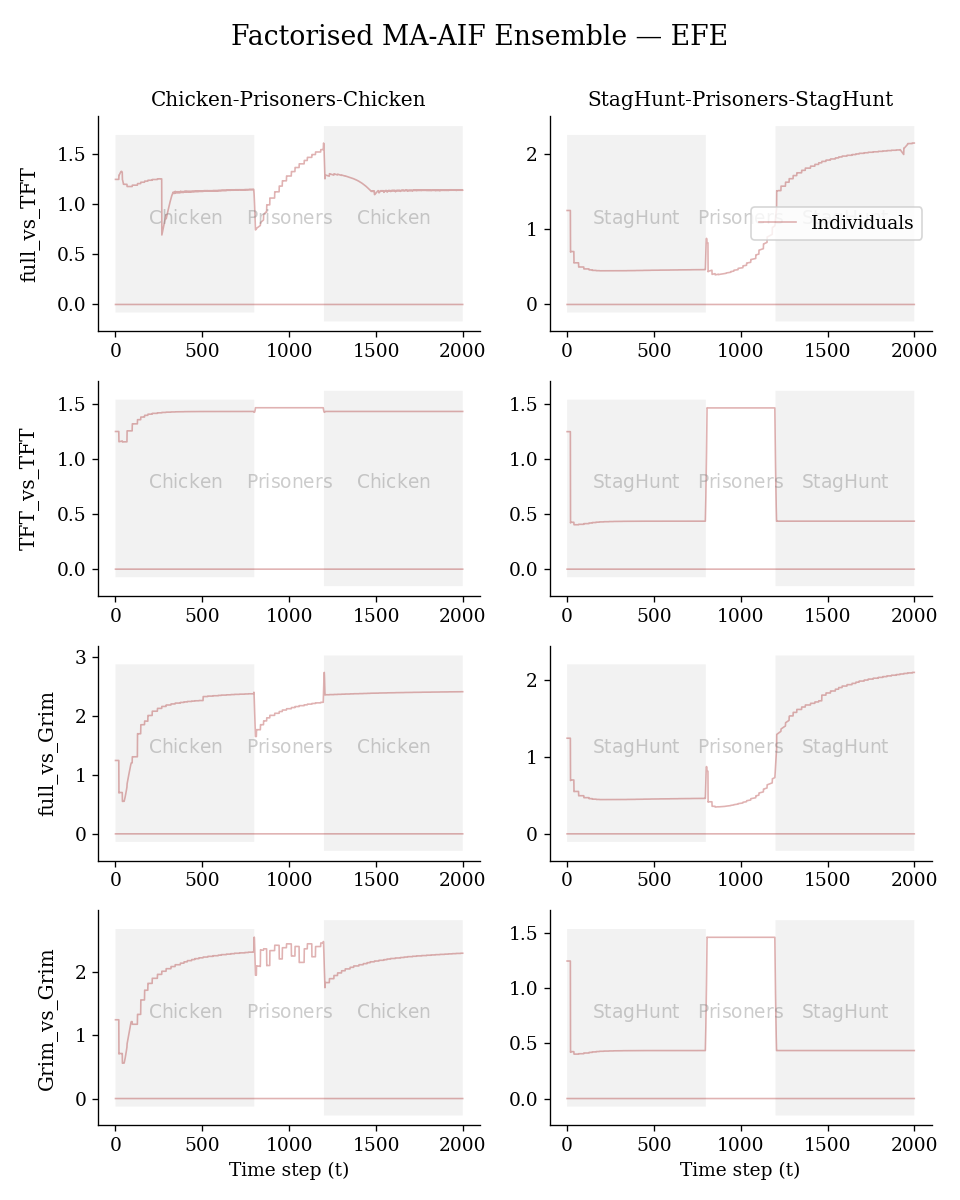
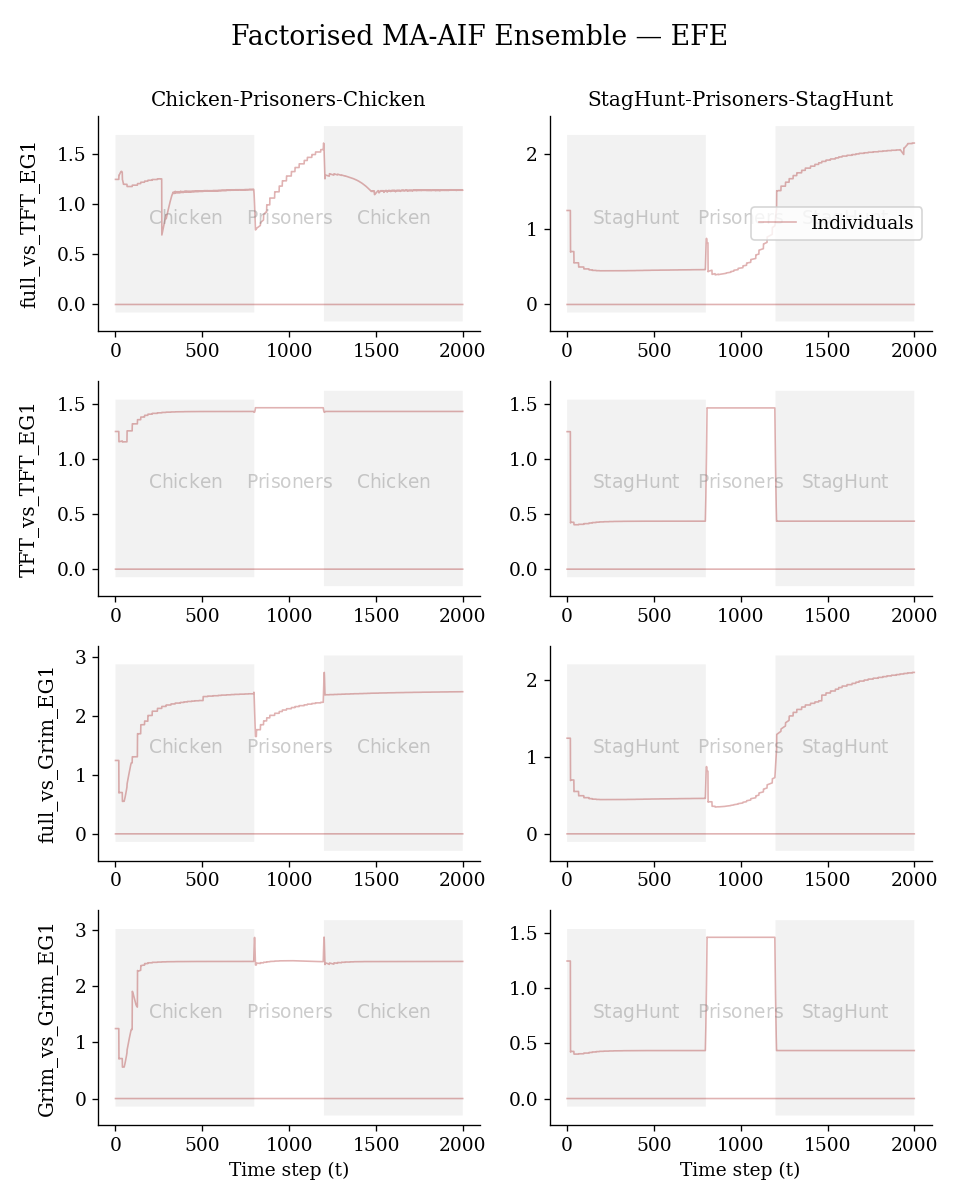
fix:Value error in grim candidate in agent

diff --git a/scripts/INFG-simulate.py b/scripts/INFG-simulate.py
@@ -29,8 +29,8 @@ import os
 if __name__ == '__main__':
 
     argparser = argparse.ArgumentParser()
-    argparser.add_argument('--num-repeats', type=int, default=1)
-    argparser.add_argument('--db-path', type=str, default='all_vs_Grim.db')
+    argparser.add_argument('--num-repeats', type=int, default=8)
+    argparser.add_argument('--db-path', type=str, default='full_vs_Grim_EG1.db')
     args = argparser.parse_args()
 
     logging.basicConfig(level=logging.INFO)
@@ -109,14 +109,14 @@ if __name__ == '__main__':
                     B_prior=0,
                     B_learning=True,
                     B_BMR="epsilon",  # Bayesian Model Reduction. One of ['epsilon', 'softmax', None]
-                    B_candidates="Full TFT Grim",  # "Full TFT Grim"
+                    B_candidates="Full",  # "Full TFT Grim"
                     B_learning_rate=1,  # Update heavily reflect observed data
                     alpha_r=0.5,
                     gamma_r=1.0,
                     compute_novelty=True,
                     # D_prior=[torch.tensor([0.4, 0.6]), torch.tensor([0.6, 0.4])],  # Prior beliefs about hidden states
                     # E_prior=torch.tensor([0.3, 0.7])  # Behaviour prior more likely to defect
-                    epistemic_gain=1,
+                    epistemic_gain=1,  # A multiplier that encourages exploration of AIF agent
                 ),
                 dict(
                     strategy="Grim",  # "Cooperator" or "Defector" or "TFT" or "Grim"

diff --git a/scripts/INFG-plot-batch.py b/scripts/INFG-plot-batch.py
@@ -260,11 +260,13 @@ def plot_all_games_ensemble_for_all_files(args, filenames, base_dir, output_dir)
 
 if __name__ == '__main__':
     # Manage all BMR files here
-    bmr_methods = ["full_vs_C", "full_vs_D",
-                   "full_vs_TFT", "TFT_vs_TFT", "all_vs_TFT",
-                   "full_vs_Grim", "Grim_vs_Grim", "all_vs_Grim"]
-    bmr_methods = ["full_vs_TFT", "TFT_vs_TFT",
-                   "full_vs_Grim", "Grim_vs_Grim"]
+    # bmr_methods = ["full_vs_C", "full_vs_D",
+    #                "full_vs_TFT", "TFT_vs_TFT", "all_vs_TFT",
+    #                "full_vs_Grim", "Grim_vs_Grim", "all_vs_Grim"]
+
+    # Focus on these 4 types of interactions
+    bmr_methods = ["full_vs_TFT_EG10", "TFT_vs_TFT_EG10",
+                   "full_vs_Grim_EG10", "Grim_vs_Grim_EG10"]
 
     # Select the focused one for more detailed analysis
     selected_bmr = bmr_methods[-1]

diff --git a/agent.py b/agent.py
@@ -882,8 +882,8 @@ class Agent:
                                                    [0.01, 0.01]],
                                                   [[0.01, 0.01],
                                                    [0.99, 0.99]]]).flatten()),
-                            ("Grim", torch.tensor([[[0.99, 0.99],
-                                                    [0.01, 0.01]],
+                            ("Grim", torch.tensor([[[0.99, 0.01],
+                                                    [0.01, 0.99]],
                                                    [[0.01, 0.01],
                                                     [0.99, 0.99]]]).flatten()),
                             ("Pavlov", torch.tensor([[[0.99, 0.01],
